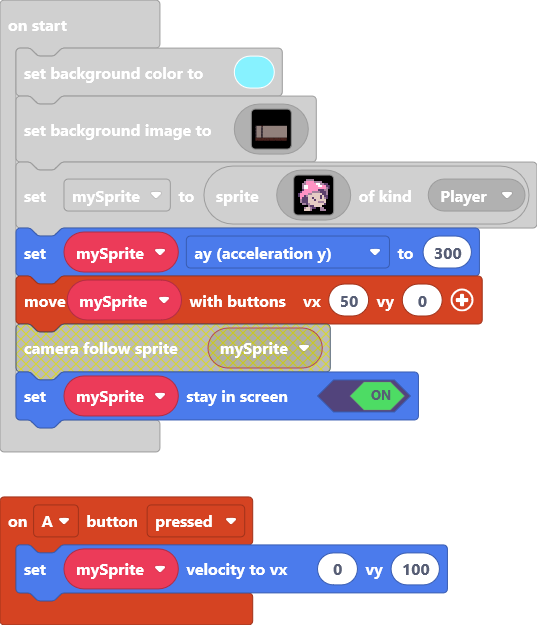
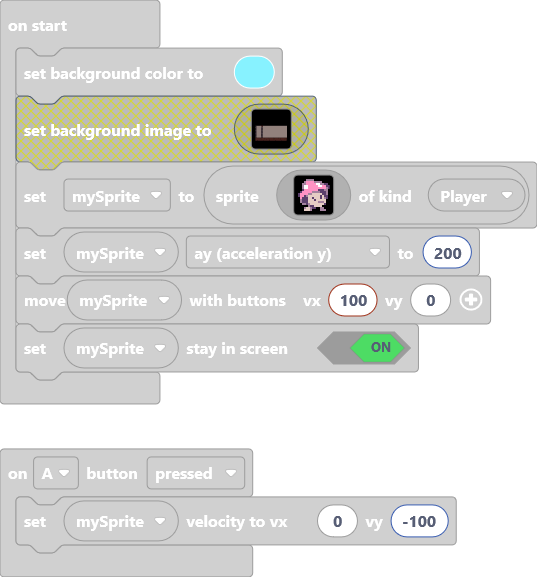
Update main.blocks, main.ts, tilemap.g.jres, tilemap.g.ts

diff --git a/main.ts b/main.ts
@@ -1,130 +1,8 @@
 controller.A.onEvent(ControllerButtonEvent.Pressed, function () {
-    mySprite.setVelocity(0, 100)
+    mySprite.setVelocity(0, -100)
 })
 let mySprite: Sprite = null
 scene.setBackgroundColor(9)
-scene.setBackgroundImage(img`
-    ffffffffffffffffffffffffffffffffffffffffffffffffffffffffffffffffffffffffffffffffffffffffffffffffffffffffffffffffffffffffffffffffffffffffffffffffffffffffffffffff
-    ffffffffffffffffffffffffffffffffffffffffffffffffffffffffffffffffffffffffffffffffffffffffffffffffffffffffffffffffffffffffffffffffffffffffffffffffffffffffffffffff
-    ffffffffffffffffffffffffffffffffffffffffffffffffffffffffffffffffffffffffffffffffffffffffffffffffffffffffffffffffffffffffffffffffffffffffffffffffffffffffffffffff
-    ffffffffffffffffffffffffffffffffffffffffffffffffffffffffffffffffffffffffffffffffffffffffffffffffffffffffffffffffffffffffffffffffffffffffffffffffffffffffffffffff
-    ffffffffffffffffffffffffffffffffffffffffffffffffffffffffffffffffffffffffffffffffffffffffffffffffffffffffffffffffffffffffffffffffffffffffffffffffffffffffffffffff
-    ffffffffffffffffffffffffffffffffffffffffffffffffffffffffffffffffffffffffffffffffffffffffffffffffffffffffffffffffffffffffffffffffffffffffffffffffffffffffffffffff
-    ffffffffffffffffffffffffffffffffffffffffffffffffffffffffffffffffffffffffffffffffffffffffffffffffffffffffffffffffffffffffffffffffffffffffffffffffffffffffffffffff
-    ffffffffffffffffffffffffffffffffffffffffffffffffffffffffffffffffffffffffffffffffffffffffffffffffffffffffffffffffffffffffffffffffffffffffffffffffffffffffffffffff
-    ffffffffffffffffffffffffffffffffffffffffffffffffffffffffffffffffffffffffffffffffffffffffffffffffffffffffffffffffffffffffffffffffffffffffffffffffffffffffffffffff
-    ffffffffffffffffffffffffffffffffffffffffffffffffffffffffffffffffffffffffffffffffffffffffffffffffffffffffffffffffffffffffffffffffffffffffffffffffffffffffffffffff
-    ffffffffffffffffffffffffffffffffffffffffffffffffffffffffffffffffffffffffffffffffffffffffffffffffffffffffffffffffffffffffffffffffffffffffffffffffffffffffffffffff
-    ffffffffffffffffffffffffffffffffffffffffffffffffffffffffffffffffffffffffffffffffffffffffffffffffffffffffffffffffffffffffffffffffffffffffffffffffffffffffffffffff
-    ffffffffffffffffffffffffffffffffffffffffffffffffffffffffffffffffffffffffffffffffffffffffffffffffffffffffffffffffffffffffffffffffffffffffffffffffffffffffffffffff
-    ffffffffffffffffffffffffffffffffffffffffffffffffffffffffffffffffffffffffffffffffffffffffffffffffffffffffffffffffffffffffffffffffffffffffffffffffffffffffffffffff
-    ffffffffffffffffffffffffffffffffffffffffffffffffffffffffffffffffffffffffffffffffffffffffffffffffffffffffffffffffffffffffffffffffffffffffffffffffffffffffffffffff
-    ffffffffffffffffffffffffffffffffffffffffffffffffffffffffffffffffffffffffffffffffffffffffffffffffffffffffffffffffffffffffffffffffffffffffffffffffffffffffffffffff
-    ffffffffffffffffffffffffffffffffffffffffffffffffffffffffffffffffffffffffffffffffffffffffffffffffffffffffffffffffffffffffffffffffffffffffffffffffffffffffffffffff
-    ffffffffffffffffffffffffffffffffffffffffffffffffffffffffffffffffffffffffffffffffffffffffffffffffffffffffffffffffffffffffffffffffffffffffffffffffffffffffffffffff
-    ffffffffffffffffffffffffffffffffffffffffffffffffffffffffffffffffffffffffffffffffffffffffffffffffffffffffffffffffffffffffffffffffffffffffffffffffffffffffffffffff
-    ffffffffffffffffffffffffffffffffffffffffffffffffffffffffffffffffffffffffffffffffffffffffffffffffffffffffffffffffffffffffffffffffffffffffffffffffffffffffffffffff
-    ffffffffffffffffffffffffffffffffffffffffffffffffffffffffffffffffffffffffffffffffffffffffffffffffffffffffffffffffffffffffffffffffffffffffffffffffffffffffffffffff
-    ffffffffffffffffffffffffffffffffffffffffffffffffffffffffffffffffffffffffffffffffffffffffffffffffffffffffffffffffffffffffffffffffffffffffffffffffffffffffffffffff
-    ffffffffffffffffffffffffffffffffffffffffffffffffffffffffffffffffffffffffffffffffffffffffffffffffffffffffffffffffffffffffffffffffffffffffffffffffffffffffffffffff
-    ffffffffffffffffffffffffffffffffffffffffffffffffffffffffffffffffffffffffffffffffffffffffffffffffffffffffffffffffffffffffffffffffffffffffffffffffffffffffffffffff
-    ffffffffffffffffffffffffffffffffffffffffffffffffffffffffffffffffffffffffffffffffffffffffffffffffffffffffffffffffffffffffffffffffffffffffffffffffffffffffffffffff
-    ffffffffffffffffffffffffffffffffffffffffffffffffffffffffffffffffffffffffffffffffffffffffffffffffffffffffffffffffffffffffffffffffffffffffffffffffffffffffffffffff
-    ffffffffffffffffffffffffffffffffffffffffffffffffffffffffffffffffffffffffffffffffffffffffffffffffffffffffffffffffffffffffffffffffffffffffffffffffffffffffffffffff
-    ffffffffffffffffffffffffffffffffffffffffffffffffffffffffffffffffffffffffffffffffffffffffffffffffffffffffffffffffffffffffffffffffffffffffffffffffffffffffffffffff
-    ffffffffffffffffffffffffffffffffffffffffffffffffffffffffffffffffffffffffffffffffffffffffffffffffffffffffffffffffffffffffffffffffffffffffffffffffffffffffffffffff
-    ffffffffffffffffffffffffffffffffffffffffffffffffffffffffffffffffffffffffffffffffffffffffffffffffffffffffffffffffffffffffffffffffffffffffffffffffffffffffffffffff
-    ffffffffffffffffffffffffffffffffffffffffffffffffffffffffffffffffffffffffffffffffffffffffffffffffffffffffffffffffffffffffffffffffffffffffffffffffffffffffffffffff
-    ffffffffffffffffffffffffffffffffffffffffffffffffffffffffffffffffffffffffffffffffffffffffffffffffffffffffffffffffffffffffffffffffffffffffffffffffffffffffffffffff
-    ffffffffffffffffffffffffffffffffffffffffffffffffffffffffffffffffffffffffffffffffffffffffffffffffffffffffffffffffffffffffffffffffffffffffffffffffffffffffffffffff
-    ffffffffffffffffffffffffffffffffffffffffffffffffffffffffffffffffffffffffffffffffffffffffffffffffffffffffffffffffffffffffffffffffffffffffffffffffffffffffffffffff
-    ffffffffffffffffffffffffffffffffffffffffffffffffffffffffffffffffffffffffffffffffffffffffffffffffffffffffffffffffffffffffffffffffffffffffffffffffffffffffffffffff
-    ffffffffffffffffffffffffffffffffffffffffffffffffffffffffffffffffffffffffffffffffffffffffffffffffffffffffffffffffffffffffffffffffffffffffffffffffffffffffffffffff
-    ffffffffffffffffffffffffffffffffffffffffffffffffffffffffffffffffffffffffffffffffffffffffffffffffffffffffffffffffffffffffffffffffffffffffffffffffffffffffffffffff
-    ffffffffffffffffffffffffffffffffffffffffffffffffffffffffffffffffffffffffffffffffffffffffffffffffffffffffffffffffffffffffffffffffffffffffffffffffffffffffffffffff
-    ffffffffffffffffffffffffffffffffffffffffffffffffffffffffffffffffffffffffffffffffffffffffffffffffffffffffffffffffffffffffffffffffffffffffffffffffffffffffffffffff
-    ffffffffffffffffffffffffffffffffffffffffffffffffffffffffffffffffffffffffffffffffffffffffffffffffffffffffffffffffffffffffffffffffffffffffffffffffffffffffffffffff
-    ffffffffffffffffffffffffffffffffffffffffffffffffffffffffffffffffffffffffffffffffffffffffffffffffffffffffffffffffffffffffffffffffffffffffffffffffffffffffffffffff
-    ffffffffffffffffffffffffffffffffffffffffffffffffffffffffffffffffffffffffffffffffffffffffffffffffffffffffffffffffffffffffffffffffffffffffffffffffffffffffffffffff
-    ffffffffffffffffffffffffffffffffffffffffffffffffffffffffffffffffffffffffffffffffffffffffffffffffffffffffffffffffffffffffffffffffffffffffffffffffffffffffffffffff
-    ffffffffffffffffffffffffffffffffffffffffffffffffffffffffffffffffffffffffffffffffffffffffffffffffffffffffffffffffffffffffffffffffffffffffffffffffffffffffffffffff
[5 lines of base64/hex data omitted]
-    ffffffffdddddddddddddddddddddddffffffffddddddddddddddddddddddddddddddddddddddddddddddddddddddddddddddddddddddddddddddddddddddddddddddddddddddddddddddddddddddddd
-    fbbbbbbfdddddddddddddddddddddddfbbbfbbfddddddddddddddddddddddddddddddddddddddddddddddddddddddddddddddddddddddddddddddddddddddddddddddddddddddddddddddddddddddddd
-    fbbbbbbfdddddddddddddddddddddddfbbbfbbfddddddddddddddddddddddddddddddddddddddddddddddddddddddddddddddddddddddddddddddddddddddddddddddddddddddddddddddddddddddddd
-    ffffffffdddddddddddddddddddddddffffffffddddddddddddddddddddddddddddddddddddddddddddddddddddddddddddddddddddddddddddddddddddddddddddddddddddddddddddddddddddddddd
-    fbbbbfbfdddddddddddddddddddddddfbbbbbbfddddddddddddddddddddddddddddddddddddddddddddddddddddddddddddddddddddddddddddddddddddddddddddddddddddddddddddddddddddddddd
-    fbbbbfbfdddddddddddddddddddddddfbbbbbbfddddddddddddddddddddddddddddddddddddddddddddddddddddddddddddddddddddddddddddddddddddddddddddddddddddddddddddddddddddddddd
-    ffffffffdddddddddddddddddddddddffffffffddddddddddddddddddddddddddddddddddddddddddddddddddddddddddddddddddddddddddddddddddddddddddddddddddddddddddddddddddddddddd
-    fbbbfbbfdddddddddddddddddddddddfbbbfbbfddddddddddddddddddddddddddddddddddddddddddddddddddddddddddddddddddddddddddddddddddddddddddddddddddddddddddddddddddddddddd
-    fbbbfbbfdddddddddddddddddddddddfbbbfbbfddddddddddddddddddddddddddddddddddddddddddddddddddddddddddddddddddddddddddddddddddddddddddddddddddddddddddddddddddddddddd
-    ffffffffdddddddddddddddddddddddffffffffddddddddddddddddddddddddddddddddddddddddddddddddddddddddddddddddddddddddddddddddddddddddddddddddddddddddddddddddddddddddd
-    fbbfbbbfdddddddddddddddddddddddfbbbbfbfddddddddddddddddddddddddddddddddddddddddddddddddddddddddddddddddddddddddddddddddddddddddddddddddddddddddddddddddddddddddd
-    fbbfbbbfdddddddddddddddddddddddfbbbbfbfddddddddddddddddddddddddddddddddddddddddddddddddddddddddddddddddddddddddddddddddddddddddddddddddddddddddddddddddddddddddd
-    ffffffffdddddddddddddddddddddddffffffffddddddddddddddddddddddddddddddddddddddddddddddddddddddddddddddddddddddddddddddddddddddddddddddddddddddddddddddddddddddddd
-    fbbbfbbfdddddddddddddddddddddddfbbbfbbfddddddddddddddddddddddddddddddddddddddddddddddddddddddddddddddddddddddddddddddddddddddddddddddddddddddddddddddddddddddddd
-    fbbbfbbfdddddddddddddddddddddddfbbbfbbfddddddddddddddddddddddddddddddddddddddddddddddddddddddddddddddddddddddddddddddddddddddddddddddddddddddddddddddddddddddddd
-    ffffffffdddddddddddddddddddddddffffffffddddddddddddddddddddddddddddddddddddddddddddddddddddddddddddddddddddddddddddddddddddddddddddddddddddddddddddddddddddddddd
-    fbfbbbbfdddddddddddddddddddddddfbbbfbbfddddddddddddddddddddddddddddddddddddddddddddddddddddddddddddddddddddddddddddddddddddddddddddddddddddddddddddddddddddddddd
-    fbfbbbbfdddddddddddddddddddddddfbbbfbbfddddddddddddddddddddddddddddddddddddddddddddddddddddddddddddddddddddddddddddddddddddddddddddddddddddddddddddddddddddddddd
-    ffffffffdddddddddddddddddddddddffffffffddddddddddddddddddddddddddddddddddddddddddddddddddddddddddddddddddddddddddddddddddddddddddddddddddddddddddddddddddddddddd
-    fbbbbbbfdddddddddddddddddddddddfbbfbbbfddddddddddddddddddddddddddddddddddddddddddddddddddddddddddddddddddddddddddddddddddddddddddddddddddddddddddddddddddddddddd
-    fbbbbbbfdddddddddddddddddddddddfbbfbbbfddddddddddddddddddddddddddddddddddddddddddddddddddddddddddddddddddddddddddddddddddddddddddddddddddddddddddddddddddddddddd
-    ffffffffdddddddddddddddddddddddffffffffddddddddddddddddddddddddddddddddddddddddddddddddddddddddddddddddddddddddddddddddddddddddddddddddddddddddddddddddddddddddd
-    fbfbbbbfdddddddddddddddddddddddfbbbfbbfddddddddddddddddddddddddddddddddddddddddddddddddddddddddddddddddddddddddddddddddddddddddddddddddddddddddddddddddddddddddd
-    fbfbbbbfdddddddddddddddddddddddfbbbfbbfddddddddddddddddddddddddddddddddddddddddddddddddddddddddddddddddddddddddddddddddddddddddddddddddddddddddddddddddddddddddd
-    ffffffffdddddddddddddddddddddddffffffffddddddddddddddddddddddddddddddddddddddddddddddddddddddddddddddddddddddddddddddddddddddddddddddddddddddddddddddddddddddddd
-    fbbbfbbfdddddddddddddddddddddddfbfbbbbfddddddddddddddddddddddddddddddddddddddddddddddddddddddddddddddddddddddddddddddddddddddddddddddddddddddddddddddddddddddddd
-    fbbbfbbfdddddddddddddddddddddddfbfbbbbfddddddddddddddddddddddddddddddddddddddddddddddddddddddddddddddddddddddddddddddddddddddddddddddddddddddddddddddddddddddddd
-    ffffffffdddddddddddddddddddddddffffffffddddddddddddddddddddddddddddddddddddddddddddddddddddddddddddddddddddddddddddddddddddddddddddddddddddddddddddddddddddddddd
-    fbbfbbbfdddddddddddddddddddddddfbbbbfbfddddddddddddddddddddddddddddddddddddddddddddddddddddddddddddddddddddddddddddddddddddddddddddddddddddddddddddddddddddddddd
-    fbbfbbbfdddddddddddddddddddddddfbbbbfbfddddddddddddddddddddddddddddddddddddddddddddddddddddddddddddddddddddddddddddddddddddddddddddddddddddddddddddddddddddddddd
-    ffffffffdddddddddddddddddddddddffffffffddddddddddddddddddddddddddddddddddddddddddddddddddddddddddddddddddddddddddddddddddddddddddddddddddddddddddddddddddddddddd
-    fbbbbfbfdddddddddddddddddddddddfbbbbbbfddddddddddddddddddddddddddddddddddddddddddddddddddddddddddddddddddddddddddddddddddddddddddddddddddddddddddddddddddddddddd
-    fbbbbfbfdddddddddddddddddddddddfbbbbbbfddddddddddddddddddddddddddddddddddddddddddddddddddddddddddddddddddddddddddddddddddddddddddddddddddddddddddddddddddddddddd
-    ffffffffdddddddddddddddddddddddffffffffddddddddddddddddddddddddddddddddddddddddddddddddddddddddddddddddddddddddddddddddddddddddddddddddddddddddddddddddddddddddd
-    fbbbfbbfdddddddddddddddddddddddfbbfbbbfddddddddddddddddddddddddddddddddddddddddddddddddddddddddddddddddddddddddddddddddddddddddddddddddddddddddddddddddddddddddd
-    fbbbfbbfdddddddddddddddddddddddfbbfbbbfddddddddddddddddddddddddddddddddddddddddddddddddddddddddddddddddddddddddddddddddddddddddddddddddddddddddddddddddddddddddd
-    ffffffffdddddddddddddddddddddddffffffffddddddddddddddddddddddddddddddddddddddddddddddddddddddddddddddddddddddddddddddddddddddddddddddddddddddddddddddddddddddddd
-    fbbfbbbfdddddddddddddddddddddddfbbfbbbfddddddddddddddddddddddddddddddddddddddddddddddddddddddddddddddddddddddddddddddddddddddddddddddddddddddddddddddddddddddddd
-    fbbfbbbfdddddddddddddddddddddddfbbfbbbfddddddddddddddddddddddddddddddddddddddddddddddddddddddddddddddddddddddddddddddddddddddddddddddddddddddddddddddddddddddddd
-    ffffffffdddddddddddddddddddddddffffffffddddddddddddddddddddddddddddddddddddddddddddddddddddddddddddddddddddddddddddddddddddddddddddddddddddddddddddddddddddddddd
-    fbbbbfbfdddddddddddddddddddddddfbbbfbbfddddddddddddddddddddddddddddddddddddddddddddddddddddddddddddddddddddddddddddddddddddddddddddddddddddddddddddddddddddddddd
-    fbbbbfbfdddddddddddddddddddddddfbbbfbbfddddddddddddddddddddddddddddddddddddddddddddddddddddddddddddddddddddddddddddddddddddddddddddddddddddddddddddddddddddddddd
-    ffffffffdddddddddddddddddddddddffffffffddddddddddddddddddddddddddddddddddddddddddddddddddddddddddddddddddddddddddddddddddddddddddddddddddddddddddddddddddddddddd
-    fbbbfbbfdddddddddddddddddddddddfbbfbbbfddddddddddddddddddddddddddddddddddddddddddddddddddddddddddddddddddddddddddddddddddddddddddddddddddddddddddddddddddddddddd
-    fbbbfbbfdddddddddddddddddddddddfbbfbbbfddddddddddddddddddddddddddddddddddddddddddddddddddddddddddddddddddddddddddddddddddddddddddddddddddddddddddddddddddddddddd
-    ffffffffdddddddddddddddddddddddffffffffddddddddddddddddddddddddddddddddddddddddddddddddddddddddddddddddddddddddddddddddddddddddddddddddddddddddddddddddddddddddd
-    fbbbfbbfdddddddddddddddddddddddfbbbbfbfddddddddddddddddddddddddddddddddddddddddddddddddddddddddddddddddddddddddddddddddddddddddddddddddddddddddddddddddddddddddd
-    fbbbfbbfdddddddddddddddddddddddfbbbbfbfddddddddddddddddddddddddddddddddddddddddddddddddddddddddddddddddddddddddddddddddddddddddddddddddddddddddddddddddddddddddd
-    ffffffffdddddddddddddddddddddddffffffffddddddddddddddddddddddddddddddddddddddddddddddddddddddddddddddddddddddddddddddddddddddddddddddddddddddddddddddddddddddddd
-    fbbfbbbfdddddddddddddddddddddddfbbfbbbfddddddddddddddddddddddddddddddddddddddddddddddddddddddddddddddddddddddddddddddddddddddddddddddddddddddddddddddddddddddddd
-    fbbfbbbfdddddddddddddddddddddddfbbfbbbfddddddddddddddddddddddddddddddddddddddddddddddddddddddddddddddddddddddddddddddddddddddddddddddddddddddddddddddddddddddddd
-    ffffffffdddddddddddddddddddddddffffffffddddddddddddddddddddddddddddddddddddddddddddddddddddddddddddddddddddddddddddddddddddddddddddddddddddddddddddddddddddddddd
-    fbbbbfbfdddddddddddddddddddddddfbbbfbbfddddddddddddddddddddddddddddddddddddddddddddddddddddddddddddddddddddddddddddddddddddddddddddddddddddddddddddddddddddddddd
-    fbbbbfbfdddddddddddddddddddddddfbbbfbbfddddddddddddddddddddddddddddddddddddddddddddddddddddddddddddddddddddddddddddddddddddddddddddddddddddddddddddddddddddddddd
-    ffffffffffffffffffffffffffffffffffffffffffffffffffffffffffffffffffffffffffffffffffffffffffffffffffffffffffffffffffffffffffffffffffffffffffffffffffffffffffffffff
-    feeeeeeeeeeeeeeeeeeeeeeeeeeeeeeeefeeeeeeeeeeeeeeeeeeeeeeeeeeeeeeeeefeeeeeeeeeeeeeeeeeeeeeeeeeefeeeeeeeeeeeeeeeeeeeeeeeefeeeeeeeeeeeeeeeeeeeeeeeeeefeeeeeeeeeeeef
-    feeeeeeeeeeeeeeeeeeeeeeeeeeeeeeeefeeeeeeeeeeeeeeeeeeeeeeeeeeeeeeeeefeeeeeeeeeeeeeeeeeeeeeeeeeefeeeeeeeeeeeeeeeeeeeeeeeefeeeeeeeeeeeeeeeeeeeeeeeeeefeeeeeeeeeeeef
-    feeeeeeeeeeeeeeeeeeeeeeeeeeeeeeeefeeeeeeeeeeeeeeeeeeeeeeeeeeeeeeeeefeeeeeeeeeeeeeeeeeeeeeeeeeefeeeeeeeeeeeeeeeeeeeeeeeefeeeeeeeeeeeeeeeeeeeeeeeeeefeeeeeeeeeeeef
-    ffffffffffffffffffffffffffffffffffffffffffffffffffffffffffffffffffffffffffffffffffffffffffffffffffffffffffffffffffffffffffffffffffffffffffffffffffffffffffffffff
-    feeeeeeeeeeeeeeeeeeeeeeeeeeefeeeeeeeeeeeeeeeeeeeefeeeeeeeeeeeeeeeeeeeeeefeeeeeeeeeeeeeeeeeeeeeeeeeefeeeeeeeeeeeeeeeeeeeeeeeeeeeeefeeeeeeeeeeeeeeeeeeeeeeefeeeeef
-    feeeeeeeeeeeeeeeeeeeeeeeeeeefeeeeeeeeeeeeeeeeeeeefeeeeeeeeeeeeeeeeeeeeeefeeeeeeeeeeeeeeeeeeeeeeeeeefeeeeeeeeeeeeeeeeeeeeeeeeeeeeefeeeeeeeeeeeeeeeeeeeeeeefeeeeef
-    feeeeeeeeeeeeeeeeeeeeeeeeeeefeeeeeeeeeeeeeeeeeeeefeeeeeeeeeeeeeeeeeeeeeefeeeeeeeeeeeeeeeeeeeeeeeeeefeeeeeeeeeeeeeeeeeeeeeeeeeeeeefeeeeeeeeeeeeeeeeeeeeeeefeeeeef
-    ffffffffffffffffffffffffffffffffffffffffffffffffffffffffffffffffffffffffffffffffffffffffffffffffffffffffffffffffffffffffffffffffffffffffffffffffffffffffffffffff
-    feeeeeeeeeeeeeeeeeeeeeeeeeeeeeefeeeeeeeeeeeeeeeeeeeeeeeeeefeeeeeeeeeeeefeeeeeeeeeeeeeeeeeeefeeeeeeeeeeeeeeeeeeeeeeeeeeeeeeeeefeeeeeeeeeeeeeeeeeeeefeeeeeeeeeeeef
-    feeeeeeeeeeeeeeeeeeeeeeeeeeeeeefeeeeeeeeeeeeeeeeeeeeeeeeeefeeeeeeeeeeeefeeeeeeeeeeeeeeeeeeefeeeeeeeeeeeeeeeeeeeeeeeeeeeeeeeeefeeeeeeeeeeeeeeeeeeeefeeeeeeeeeeeef
-    feeeeeeeeeeeeeeeeeeeeeeeeeeeeeefeeeeeeeeeeeeeeeeeeeeeeeeeefeeeeeeeeeeeefeeeeeeeeeeeeeeeeeeefeeeeeeeeeeeeeeeeeeeeeeeeeeeeeeeeefeeeeeeeeeeeeeeeeeeeefeeeeeeeeeeeef
-    ffffffffffffffffffffffffffffffffffffffffffffffffffffffffffffffffffffffffffffffffffffffffffffffffffffffffffffffffffffffffffffffffffffffffffffffffffffffffffffffff
-    feeeeeeeeeeeefeeeeeeeeeeeeeeeeeeeeeeeeeeefeeeeeeeeeeeeeeeeeeeeeeeeeeeeeeefeeeeeeeeeeeeeeeeeeeeeeeeeeeeefeeeeeeeeeeeeeeeeeeeeeeeeeeeefeeeeeeeeeeeeeeeeeeeeeeeeeef
-    feeeeeeeeeeeefeeeeeeeeeeeeeeeeeeeeeeeeeeefeeeeeeeeeeeeeeeeeeeeeeeeeeeeeeefeeeeeeeeeeeeeeeeeeeeeeeeeeeeefeeeeeeeeeeeeeeeeeeeeeeeeeeeefeeeeeeeeeeeeeeeeeeeeeeeeeef
-    feeeeeeeeeeeefeeeeeeeeeeeeeeeeeeeeeeeeeeefeeeeeeeeeeeeeeeeeeeeeeeeeeeeeeefeeeeeeeeeeeeeeeeeeeeeeeeeeeeefeeeeeeeeeeeeeeeeeeeeeeeeeeeefeeeeeeeeeeeeeeeeeeeeeeeeeef
-    ffffffffffffffffffffffffffffffffffffffffffffffffffffffffffffffffffffffffffffffffffffffffffffffffffffffffffffffffffffffffffffffffffffffffffffffffffffffffffffffff
-    `)
 mySprite = sprites.create(img`
     . . . . b b b b . . . . . . . . 
     . . . b 3 3 3 3 b b b b . . . . 
@@ -143,6 +21,6 @@ mySprite = sprites.create(img`
     . . f b d d b c c f f b b f f . 
     . . f d d d b . . f f b b b f . 
     `, SpriteKind.Player)
-mySprite.ay = 300
-controller.moveSprite(mySprite, 50, 0)
+mySprite.ay = 200
+controller.moveSprite(mySprite, 100, 0)
 mySprite.setStayInScreen(true)

diff --git a/tilemap.g.ts b/tilemap.g.ts
@@ -3,6 +3,50 @@ namespace myTiles {
     //% fixedInstance jres blockIdentity=images._tile
     export const transparency16 = image.ofBuffer(hex``);
 
+    helpers._registerFactory("tilemap", function(name: string) {
+        switch(helpers.stringTrim(name)) {
+            case "level2":
+            case "level2":return tiles.createTilemap(hex`1000100000000000000000000000000000000000000000000000000000000000000000000000000000000000000000000000000000000000000000000000000000000000000000000000000000000000000000000000000000000000000000000000000000000000000000000000000000000000000000000000000000000000000000000000000000000000000000000000000000000000000000000000000000000000000000000000000000000000000000000000000000000000000000000000000000000000000000000000000000000000000000000000000000000000000000000000000000000000000000000000000000000000000000000000000000000000`, img`
+. . . . . . . . . . . . . . . . 
+. . . . . . . . . . . . . . . . 
+. . . . . . . . . . . . . . . . 
+. . . . . . . . . . . . . . . . 
+. . . . . . . . . . . . . . . . 
+. . . . . . . . . . . . . . . . 
+. . . . . . . . . . . . . . . . 
+. . . . . . . . . . . . . . . . 
+. . . . . . . . . . . . . . . . 
+. . . . . . . . . . . . . . . . 
+. . . . . . . . . . . . . . . . 
+. . . . . . . . . . . . . . . . 
+. . . . . . . . . . . . . . . . 
+. . . . . . . . . . . . . . . . 
+. . . . . . . . . . . . . . . . 
+. . . . . . . . . . . . . . . . 
+`, [myTiles.transparency16], TileScale.Sixteen);
+            case "level1":
+            case "level1":return tiles.createTilemap(hex`1000100001030303030303030303030303030304070202020202020202020202020202080702020202020202020202020202020807020202020202020202020202020208070202020202020202020202020202080702020202020202020202020202020807020202020202020202020202020208070202020202020202020202020202080702020202020202020202020202020807020202020202020202020202020208070202020202020202020202020202080702020202020202020202020202020807020202020202020202020202020208070202020202020202020202020202080702020202020202020202020202020806090909090909090909090909090905`, img`
+. . . . . . . . . . . . . . . . 
+. . . . . . . . . . . . . . . . 
+. . . . . . . . . . . . . . . . 
+. . . . . . . . . . . . . . . . 
+. . . . . . . . . . . . . . . . 
+. . . . . . . . . . . . . . . . 
+. . . . . . . . . . . . . . . . 
+. . . . . . . . . . . . . . . . 
+. . . . . . . . . . . . . . . . 
+. . . . . . . . . . . . . . . . 
+. . . . . . . . . . . . . . . . 
+. . . . . . . . . . . . . . . . 
+. . . . . . . . . . . . . . . . 
+. . . . . . . . . . . . . . . . 
+. . . . . . . . . . . . . . . . 
+. . . . . . . . . . . . . . . . 
+`, [myTiles.transparency16,sprites.castle.tilePath1,sprites.castle.tileGrass2,sprites.castle.tilePath2,sprites.castle.tilePath3,sprites.castle.tilePath9,sprites.castle.tilePath7,sprites.castle.tilePath4,sprites.castle.tilePath6,sprites.castle.tilePath8], TileScale.Sixteen);
+        }
+        return null;
+    })
+
     helpers._registerFactory("tile", function(name: string) {
         switch(helpers.stringTrim(name)) {
             case "transparency16":return transparency16;
